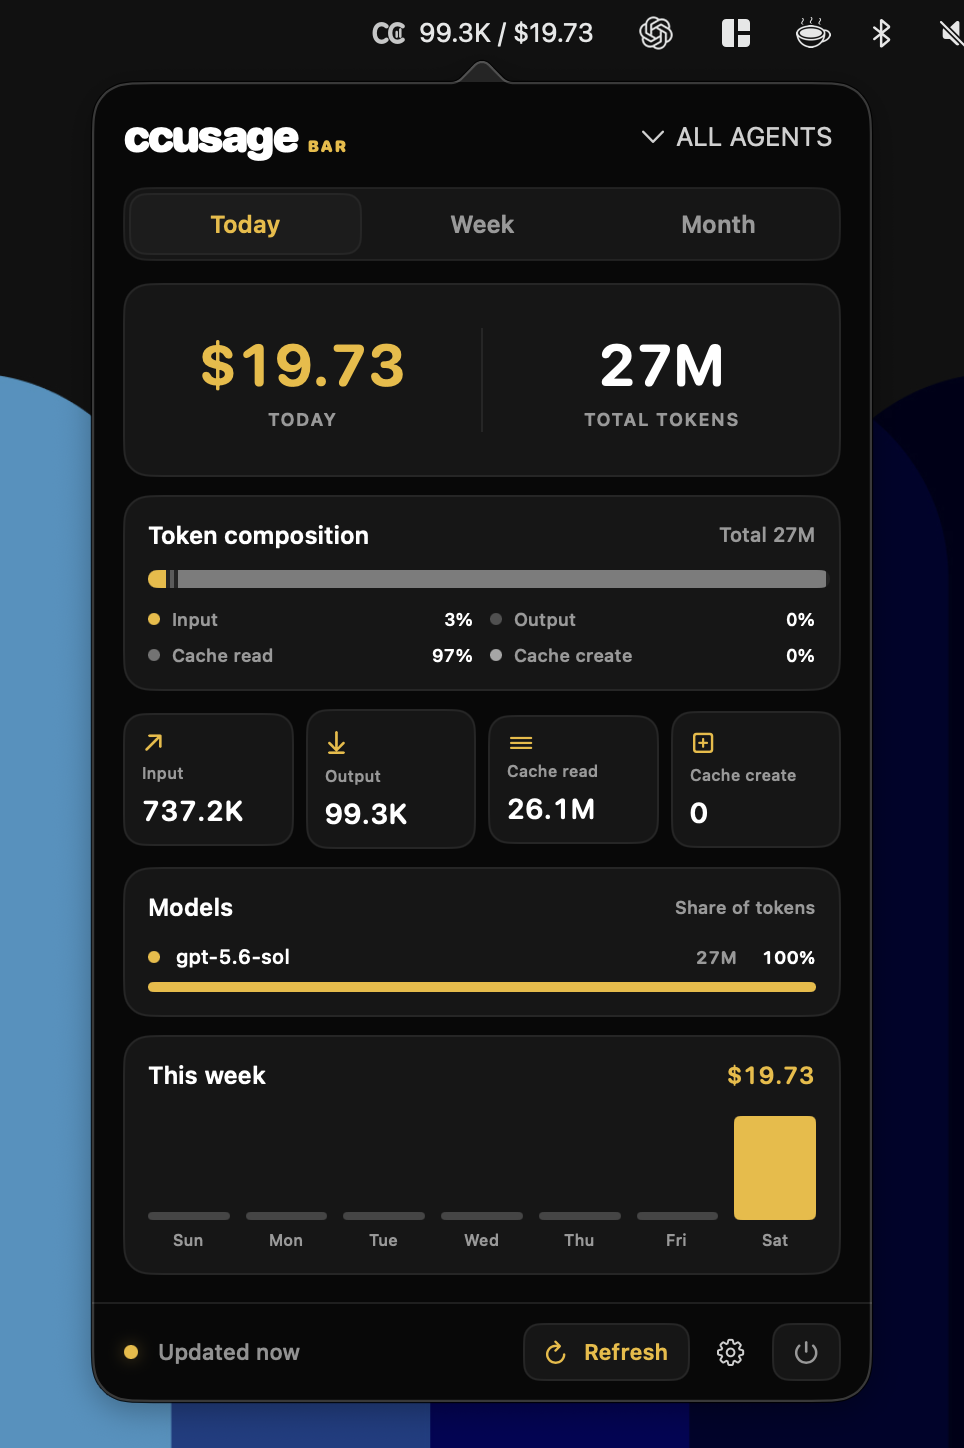
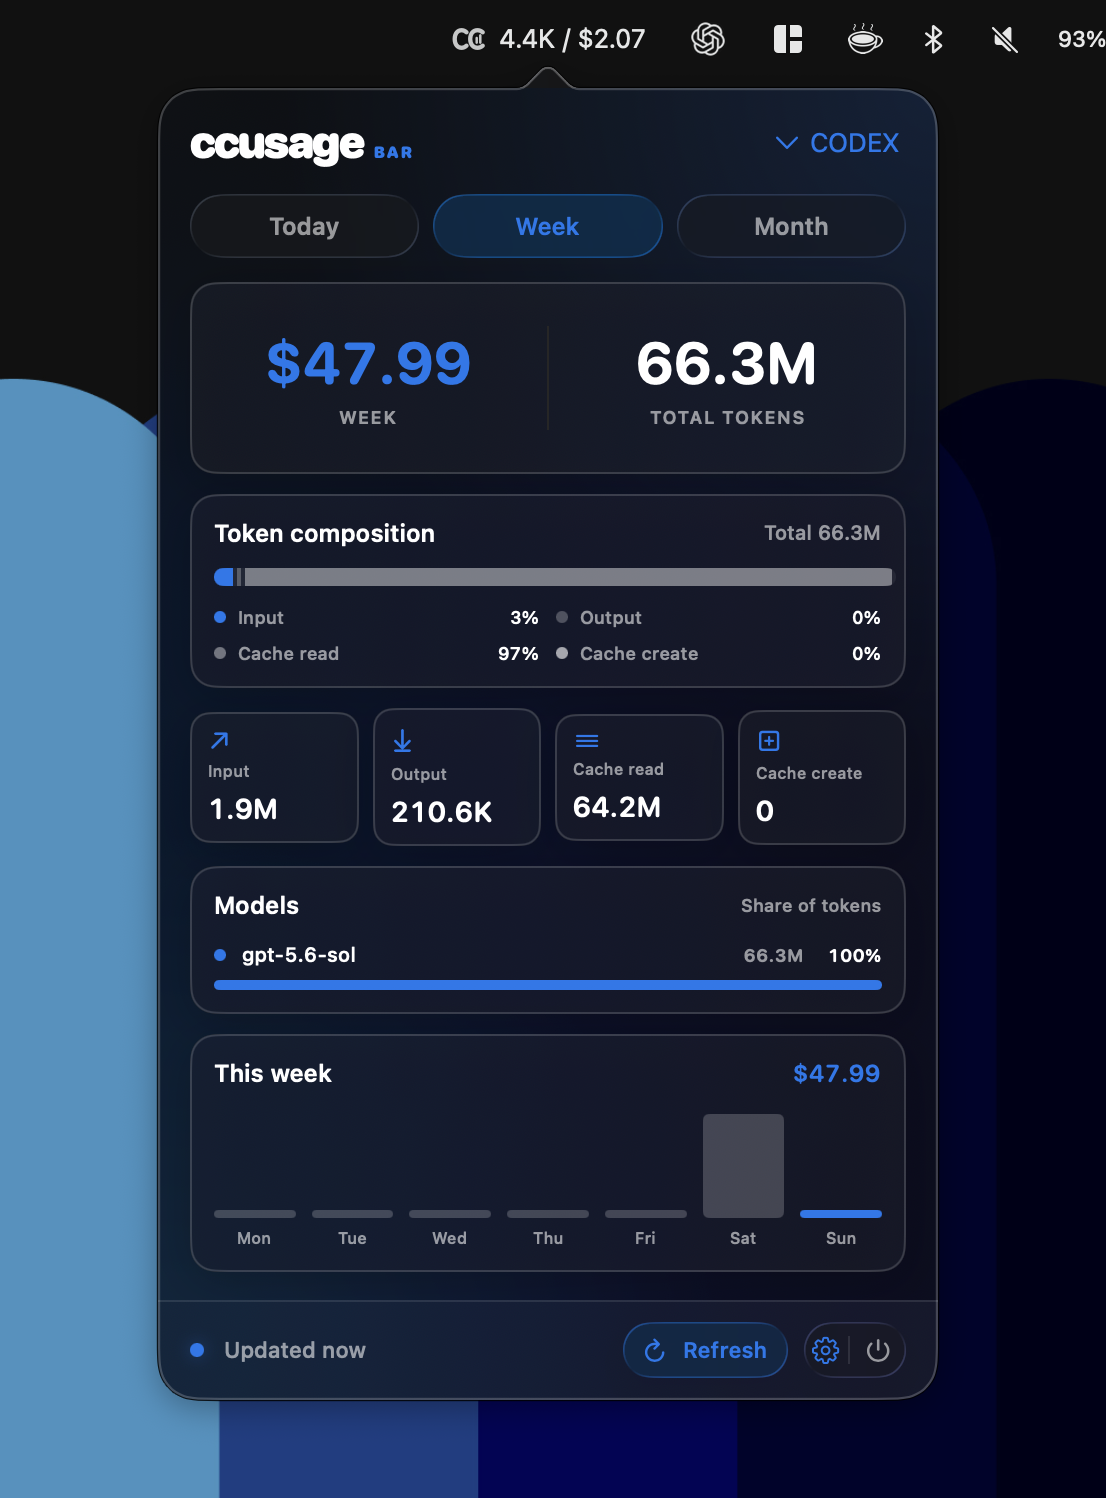
Refresh README and screenshot

diff --git a/README.md b/README.md
@@ -1,32 +1,34 @@
 <div align="center">
   <img src="Sources/ccusageBarApp/Resources/AppIcon.svg" width="104" alt="ccusage Bar app icon">
   <h1>ccusage Bar</h1>
-  <p>A native macOS menu bar companion for tracking AI coding usage and cost at a glance.</p>
+  <p>A native macOS menu bar companion for tracking local AI coding usage and estimated cost at a glance.</p>
   <p>
     <img src="https://img.shields.io/badge/macOS-14%2B-black?logo=apple" alt="macOS 14 or newer">
     <img src="https://img.shields.io/badge/Swift-6.0-f05138?logo=swift&logoColor=white" alt="Swift 6.0">
     <a href="LICENSE"><img src="https://img.shields.io/badge/license-MIT--0-yellow" alt="MIT-0 license"></a>
   </p>
-  <p><a href="https://github.com/CristianKhalilSC/ccusage-bar/releases/latest"><strong>Download the latest DMG</strong></a></p>
+  <p><a href="#run-from-source"><strong>Build and run from source</strong></a></p>
 </div>
 
-ccusage Bar keeps the numbers that matter in the macOS menu bar. Open its compact popover to compare today, the last seven days, and the current month without returning to a terminal.
+ccusage Bar keeps the numbers that matter in the macOS menu bar. Open its compact popover to compare today, the trailing seven days, and the current calendar month without returning to a terminal.
 
-It reads local reports from [`ccusage`](https://github.com/ccusage/ccusage), supports unified and agent-specific views, and does not require an account or hosted service.
+It reads local reports from [`ccusage`](https://github.com/ccusage/ccusage), supports all-agent and source-specific views, and does not require an account or hosted service.
 
 <div align="center">
-  <img src="design/ccusage-bar-running.png" width="482" alt="ccusage Bar running as a macOS menu bar popover with token usage, estimated cost, model shares, and a weekly chart">
-  <p><sub>Usage and cost in the menu bar, with the full dashboard one click away.</sub></p>
+  <img src="design/ccusage-bar-running.png" width="553" alt="ccusage Bar showing a Codex-only weekly view with a custom blue accent, token composition, model share, and daily activity chart">
+  <p><sub>A Codex-only weekly view using a custom blue accent.</sub></p>
 </div>
 
 ## Highlights
 
 - Today's output tokens and estimated cost directly in the menu bar
 - Today, Week, and Month views with token and cost totals
-- Input, output, cache-read, cache-creation, and reasoning-token breakdowns
-- Per-model usage and daily activity charts
-- Unified, Claude, Codex, and automatically detected agent filters
-- Active Claude billing-block status and projections when available
+- Input, output, cache-read, cache-creation, and optional reasoning-token breakdowns
+- Per-model token shares and daily output-token charts
+- All Agents, Claude, Codex, and automatically detected source filters
+- Active Claude billing-block metrics and projections when available
+- Eight accent presets plus a custom macOS color picker
+- Frosted, adaptive surfaces with a reduced-transparency fallback
 - Automatic refresh every 60 seconds, plus manual refresh with `Command-R`
 - Last successful values remain visible if a refresh fails
 - Optional launch at login
@@ -38,30 +40,36 @@ It reads local reports from [`ccusage`](https://github.com/ccusage/ccusage), sup
 - Apple silicon or Intel Mac
 - A globally installed [`ccusage`](https://github.com/ccusage/ccusage) executable
 - Local usage data from at least one coding-agent CLI supported by `ccusage`
+- A Swift 6 toolchain to build the app from source
 
-ccusage Bar is a graphical companion to `ccusage`; it does not collect usage data itself. Install the CLI globally before opening the app:
+ccusage Bar is a graphical companion to `ccusage`; it does not collect usage data itself. The app launches the `ccusage` executable directly, so a package-runner command such as `npx ccusage` is not sufficient on its own. Install the CLI globally before opening the app:
 
 ```bash
 npm install --global ccusage@latest
 ccusage --version
 ```
 
-The app searches the current `PATH`, `/opt/homebrew/bin/ccusage`, and `/usr/local/bin/ccusage`. A Node installation managed by Homebrew normally places the global executable in one of these locations.
+The app searches the current `PATH`, `/opt/homebrew/bin/ccusage`, and `/usr/local/bin/ccusage`. A Node installation managed by Homebrew normally places the global executable in one of these locations. See the [ccusage installation guide](https://ccusage.com/guide/installation) for other global installation options.
 
-## Installation
+## Run from Source
 
-1. Download `ccusage-Bar.dmg` from the [latest release](https://github.com/CristianKhalilSC/ccusage-bar/releases/latest).
-2. Open the DMG and drag **ccusage Bar** into **Applications**.
-3. Launch the app from Applications. Its icon and current usage will appear in the menu bar.
+Prebuilt releases are not currently published. Clone the repository and launch the app with Swift Package Manager:
 
-> [!IMPORTANT]
-> Current builds are unsigned and unnotarized. On first launch, macOS may prevent the app from opening. After attempting to open it, go to **System Settings → Privacy & Security**, select **Open Anyway**, and confirm. Only bypass this warning for a DMG downloaded from this repository. See [Apple's instructions for opening an app from an unidentified developer](https://support.apple.com/en-us/102445).
+```bash
+git clone https://github.com/CristianKhalilSC/ccusage-bar.git
+cd ccusage-bar
+swift run ccusage-bar
+```
+
+The process remains attached to the terminal until you quit the app. Launch at Login requires a packaged `.app` installed in Applications and is unavailable when running directly through Swift Package Manager.
 
 ## Using the App
 
-Select the menu bar item to open the popover. Use the tabs to switch periods and the agent menu to focus on a specific source. The footer provides refresh, settings, and quit controls.
+The menu bar item shows today's output tokens and estimated cost. Select it to open the popover, use the tabs to switch periods, and use the source menu to choose All Agents or focus on one coding agent. The app remembers the selected source and accent color between launches.
 
-Open the gear menu to choose an accent color or enable **Launch at Login**. macOS may ask you to approve the login item under **System Settings → General → Login Items & Extensions**.
+Choose one of the preset accents from the gear menu or open the macOS color picker with **Custom…**. A packaged app can also enable **Launch at Login** there; macOS may ask you to approve the login item under **System Settings → General → Login Items & Extensions**.
+
+The app refreshes whenever the popover opens and every 60 seconds while it is running. Use the footer button or press `Command-R` to refresh immediately, and press `Command-Q` to quit.
 
 If the app cannot find `ccusage`, confirm that `ccusage --version` works in Terminal and that the executable is installed in one of the supported locations above.
 
@@ -73,17 +81,13 @@ Cost values are estimates produced from the data and pricing available to `ccusa
 
 ## Development
 
-The project uses Swift Package Manager and requires a Swift 6 toolchain:
+The project uses Swift Package Manager. From the repository root:
 
 ```bash
-git clone https://github.com/CristianKhalilSC/ccusage-bar.git
-cd ccusage-bar
 swift build
 swift run ccusage-core-tests
 swift run ccusage-bar
 ```
-
-Running through Swift Package Manager is suitable for development, but launch-at-login registration requires a packaged `.app` installed in Applications.
 
 The codebase is split into two targets:
 
